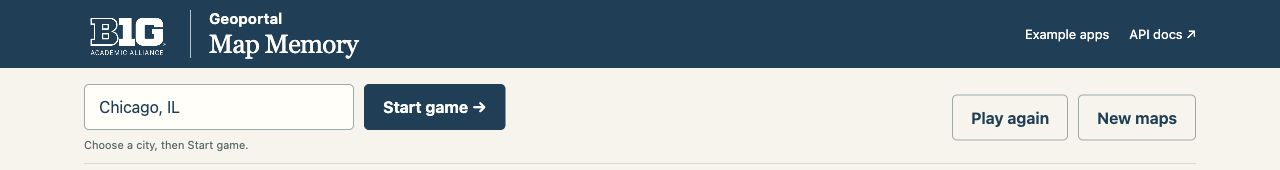
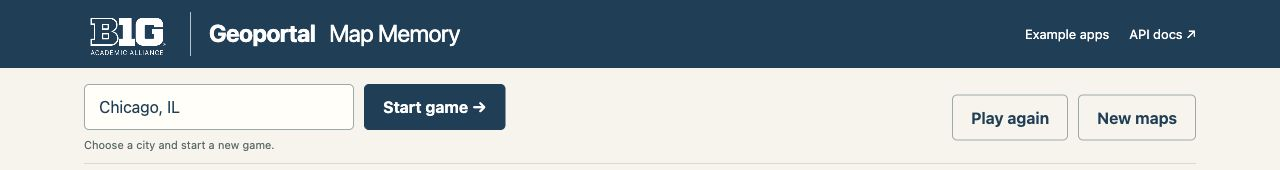
Balance horizontal branding and simplify city instructions

Changed region(s): [[0.1562, 0.0882, 0.375, 0.3529], [0.125, 0.8235, 0.2188, 0.8824]]

diff --git a/apps/map-memory/styles.css b/apps/map-memory/styles.css
@@ -90,26 +90,26 @@ button:focus-visible,a:focus-visible,input:focus-visible {
 }
 .brand-wordmark {
   display:flex;
-  flex-direction:column;
-  justify-content:center;
+  flex-direction:row;
+  align-items:baseline;
   min-height:44px;
-  padding-left:18px;
+  padding:8px 0 8px 18px;
   border-left:1px solid #adc5cf;
-  gap:2px;
-  font-size:18px;
-  line-height:1.15;
-  letter-spacing:0;
+  gap:14px;
+  font-size:24px;
+  line-height:1.1;
+  letter-spacing:-.025em;
 }
 .brand-caption {
-  font-size:15px;
-  font-weight:650;
+  font:inherit;
+  font-weight:700;
   color:#fff;
-  letter-spacing:.01em;
 }
 
 h1 {
-  font:26px/1.1 Georgia,serif;
-  letter-spacing:-.025em;
+  font:inherit;
+  font-weight:400;
+  letter-spacing:inherit;
   margin:0;
   white-space:nowrap;
 }
@@ -446,12 +446,13 @@ footer {
     padding:8px 0;
   }
   .header-inner {
-    gap:8px;
+    flex-wrap:wrap;
+    gap:4px;
   }
   .header-nav {
-    flex-direction:column;
-    align-items:flex-end;
-    gap:0;
+    width:100%;
+    justify-content:flex-end;
+    gap:16px;
     font-size:11px;
   }
   .header-nav a {
@@ -511,17 +512,13 @@ footer {
     gap:10px;
   }
   .brand-logo {
-    width:64px;
+    width:52px;
   }
   .brand-wordmark {
-    min-height:36px;
-    padding-left:10px;
-  }
-  .brand-caption {
-    font-size:12px;
-  }
-  h1 {
-    font-size:20px;
+    min-height:32px;
+    padding:6px 0 6px 10px;
+    gap:10px;
+    font-size:17px;
   }
   h2 {
     font-size:22px;

diff --git a/apps/map-memory/index.html b/apps/map-memory/index.html
@@ -25,7 +25,7 @@
           <input id="citySearch" type="text" role="combobox" aria-autocomplete="list" aria-expanded="false" aria-controls="cityOptions" aria-describedby="cityHelp" autocomplete="off" value="Chicago, IL">
           <ul id="cityOptions" role="listbox" aria-label="Cities" hidden></ul>
         </div><button class="primary" type="submit">Start game <span aria-hidden="true">→</span></button></div>
-        <p id="cityHelp" class="help">Choose a city, then Start game.</p>
+        <p id="cityHelp" class="help">Choose a city and start a new game.</p>
       </form>
       <div class="game-actions"><button id="playAgain" type="button" disabled>Play again</button><button id="newMaps" type="button" disabled>New maps</button></div>
     </section>
